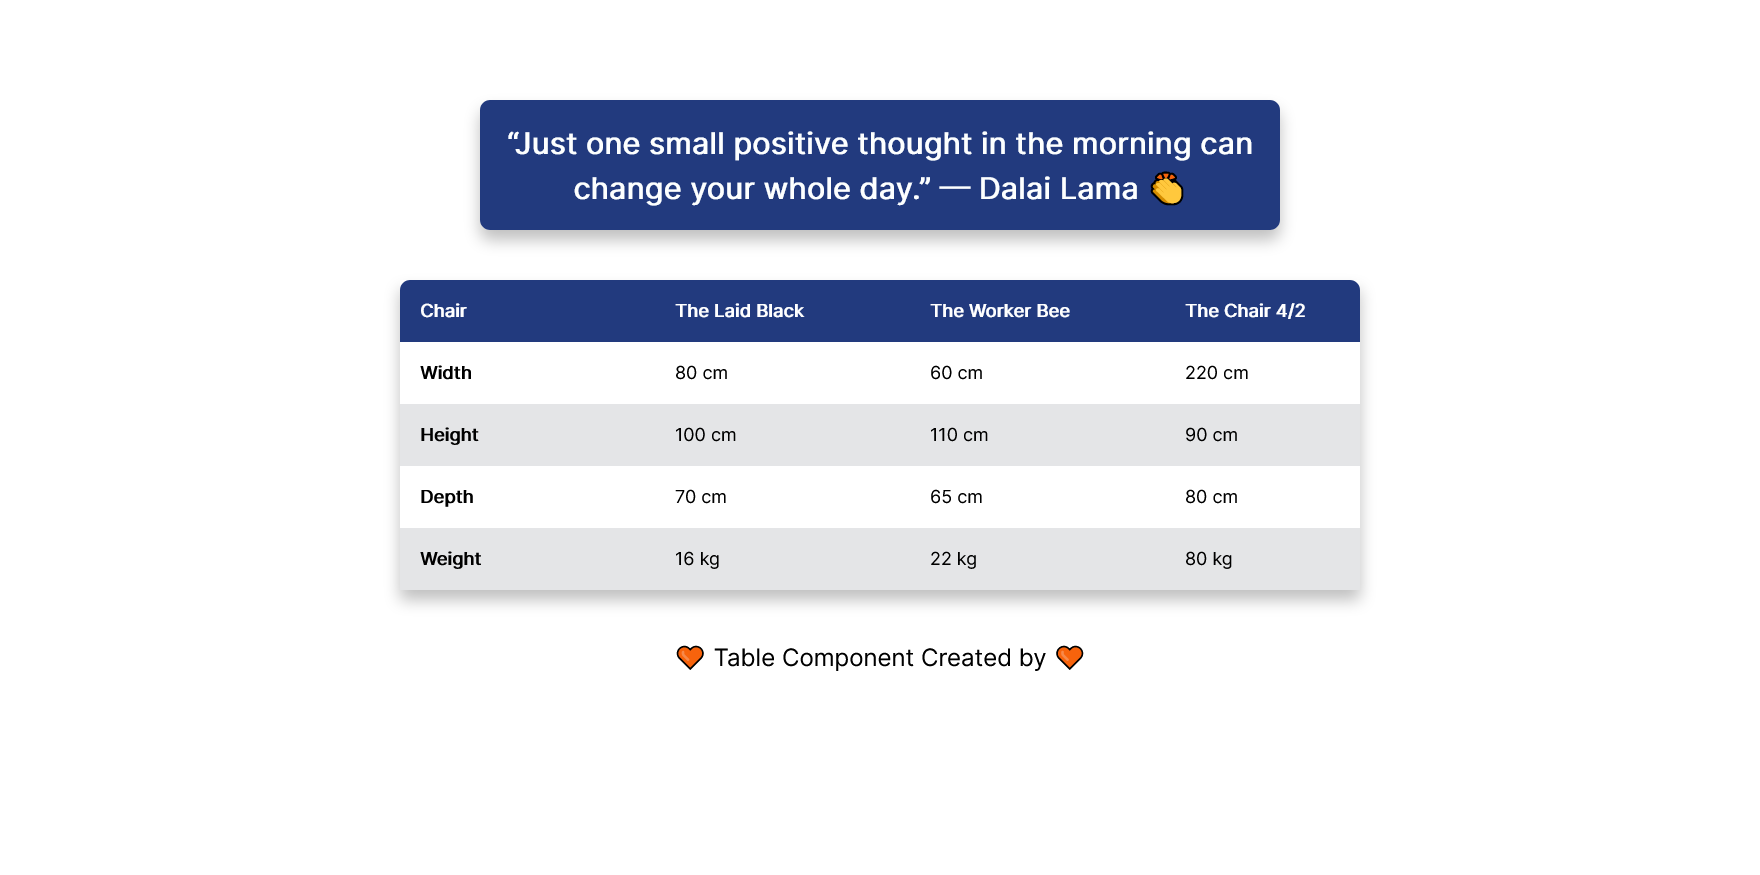
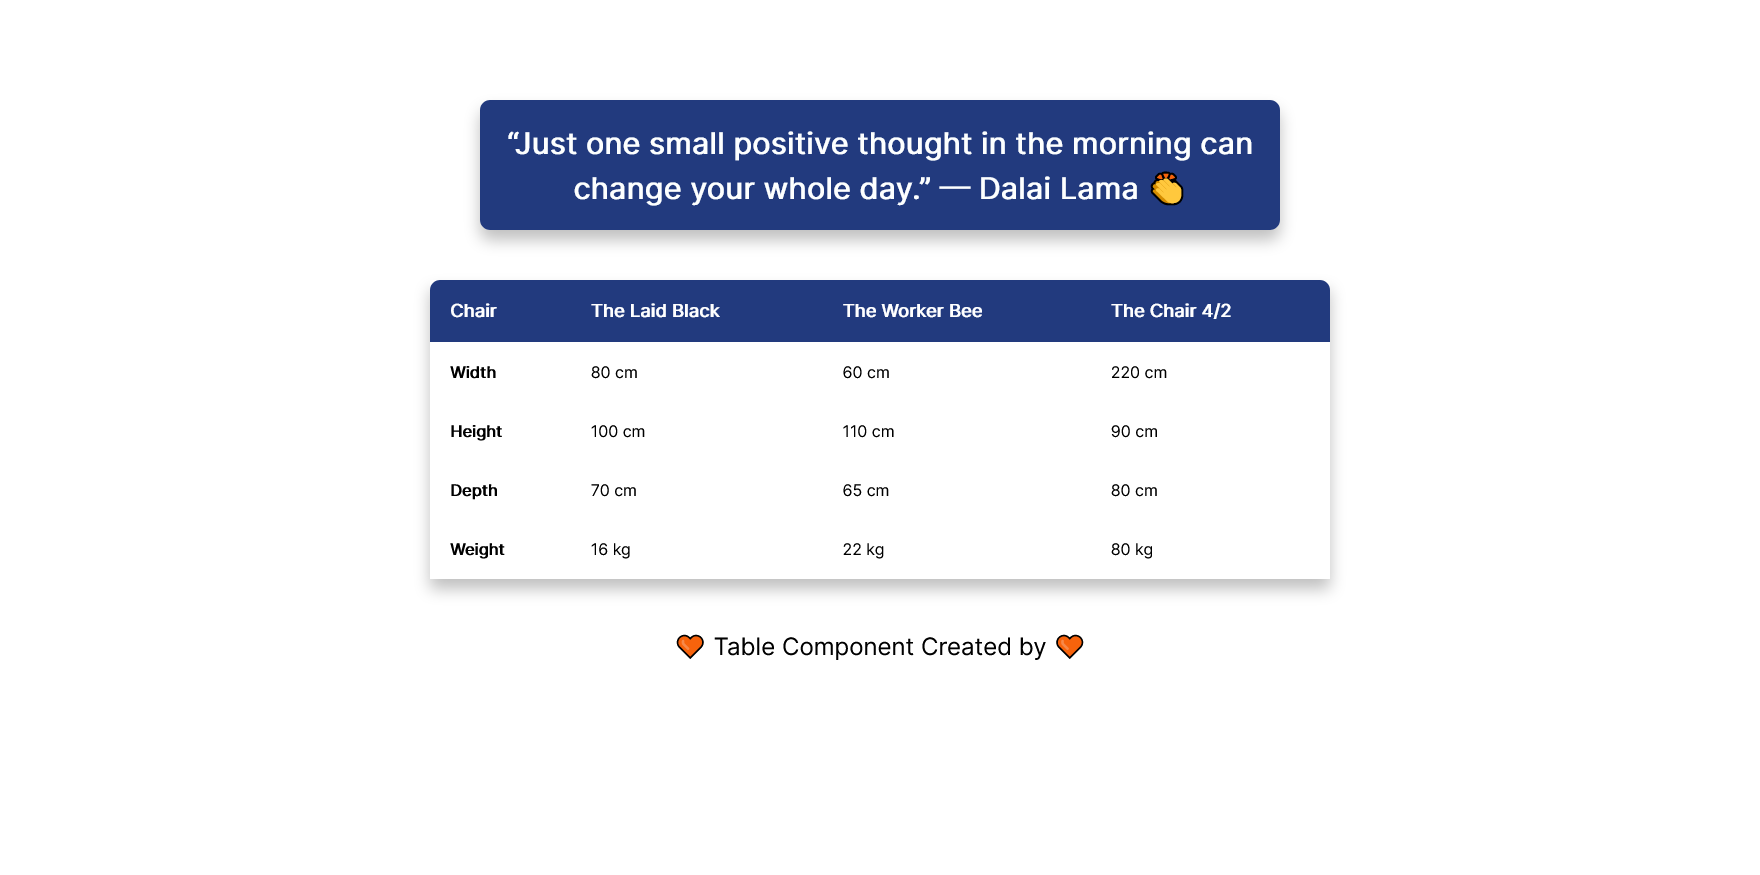
🎉 Initial Commit.

diff --git a/index.html b/index.html
@@ -19,38 +19,42 @@
       day.” — Dalai Lama 👏
     </blockquote>
 
-    <div class="table">
-      <div class="row header">
-        <p>Chair</p>
-        <p>The Laid Black</p>
-        <p>The Worker Bee</p>
-        <p>The Chair 4/2</p>
-      </div>
-      <div class="row row-1">
-        <p>Width</p>
-        <p>80 cm</p>
-        <p>60 cm</p>
-        <p>220 cm</p>
-      </div>
-      <div class="row row-2">
-        <p>Height</p>
-        <p>100 cm</p>
-        <p>110 cm</p>
-        <p>90 cm</p>
-      </div>
-      <div class="row row-3">
-        <p>Depth</p>
-        <p>70 cm</p>
-        <p>65 cm</p>
-        <p>80 cm</p>
-      </div>
-      <div class="row row-4">
-        <p>Weight</p>
-        <p>16 kg</p>
-        <p>22 kg</p>
-        <p>80 kg</p>
-      </div>
-    </div>
+    <table class="table">
+      <thead>
+        <tr>
+          <th>Chair</th>
+          <th>The Laid Black</th>
+          <th>The Worker Bee</th>
+          <th>The Chair 4/2</th>
+        </tr>
+      </thead>
+      <tbody>
+        <tr>
+          <td>Width</td>
+          <td>80 cm</td>
+          <td>60 cm</td>
+          <td>220 cm</td>
+        </tr>
+        <tr>
+          <td>Height</td>
+          <td>100 cm</td>
+          <td>110 cm</td>
+          <td>90 cm</td>
+        </tr>
+        <tr>
+          <td>Depth</td>
+          <td>70 cm</td>
+          <td>65 cm</td>
+          <td>80 cm</td>
+        </tr>
+        <tr>
+          <td>Weight</td>
+          <td>16 kg</td>
+          <td>22 kg</td>
+          <td>80 kg</td>
+        </tr>
+      </tbody>
+    </table>
     <footer><p>🧡 Table Component Created by 🧡</p></footer>
   </body>
 </html>

diff --git a/css/style.css b/css/style.css
@@ -34,37 +34,32 @@ body {
 /**************************
  * TABLE SECTION *
  **************************/
-.table {
+
+table {
   margin: 50px auto;
-  display: flex;
-  flex-direction: column;
-  width: 960px;
+  width: 900px;
   box-shadow: 0px 10px 15px rgba(0, 0, 0, 0.25);
+  border-collapse: collapse;
 }
-
-.header {
+thead tr th:nth-child(1) {
+  border-radius: 10px 0 0 0;
+}
+thead tr th:nth-child(4) {
+  border-radius: 0 10px 0 0;
+}
+thead tr th {
   background-color: #223a7e;
-  font-size: 32px;
-  font-weight: bold;
-  color: #fff;
-  border-radius: 10px 10px 0 0;
-}
-
-.row {
-  display: flex;
-  font-size: 18px;
   padding: 20px;
-  gap: 100px;
+  color: #fff;
+  text-align: left;
+  font-size: 18px;
 }
 
-.row p {
-  flex: 1;
+tbody tr td {
+  padding: 20px;
 }
 
-.table .row:not(.header):nth-child(odd) {
-  background-color: #e4e5e7;
-}
-.row p:nth-of-type(1) {
+tbody tr td:nth-child(1) {
   font-weight: bold;
 }
 
